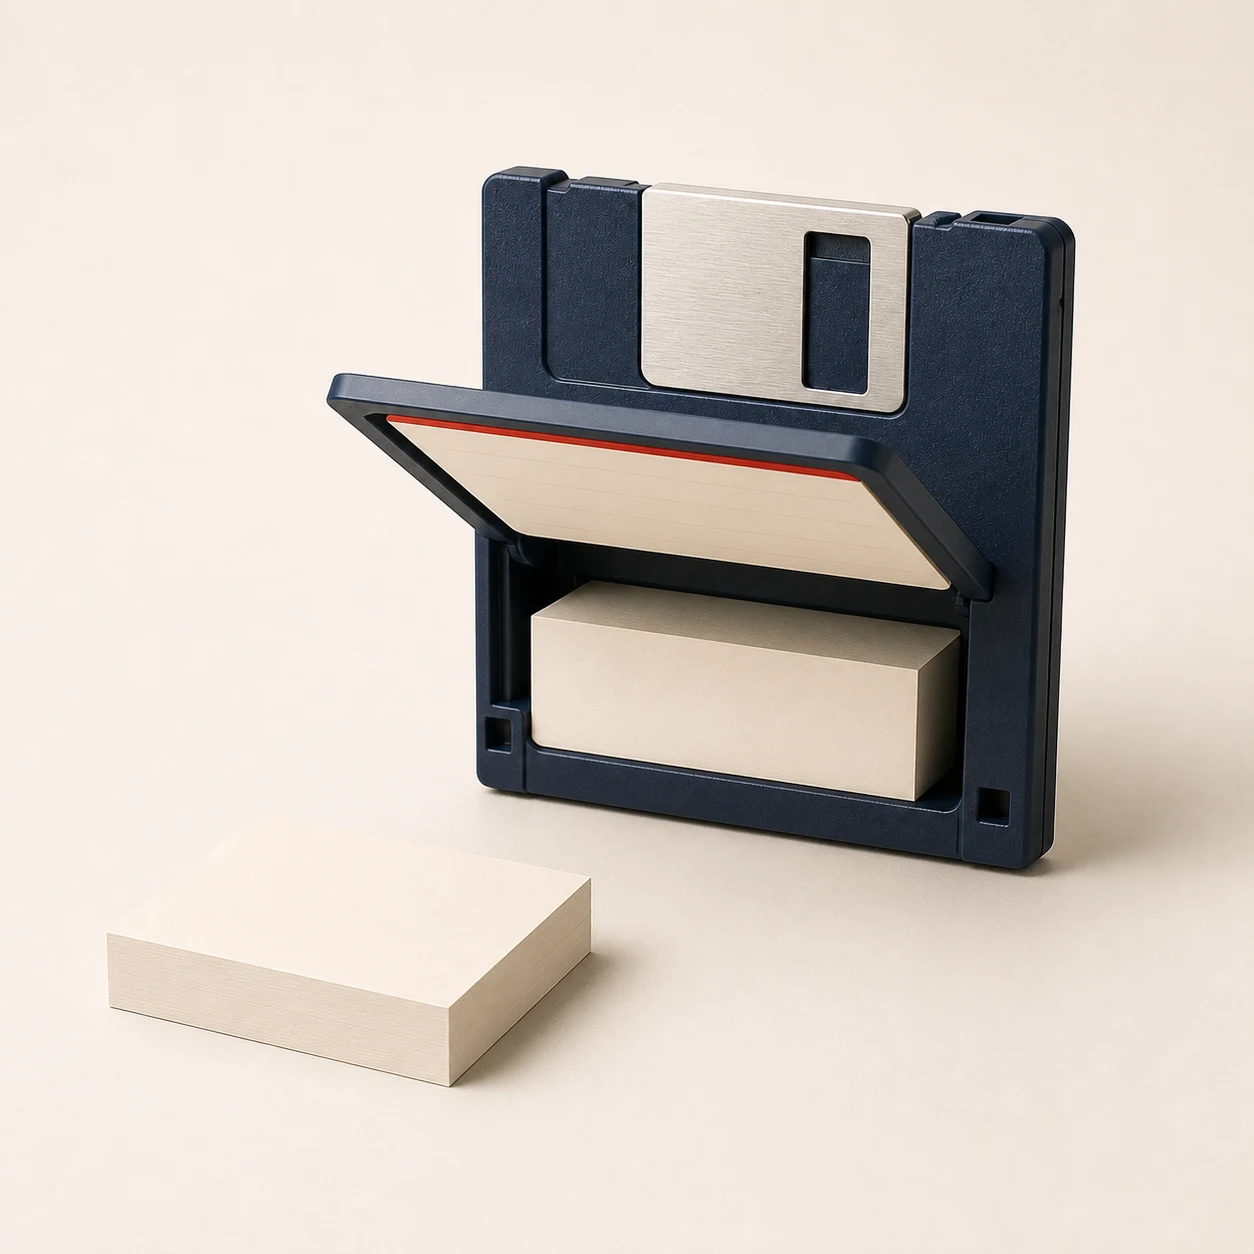
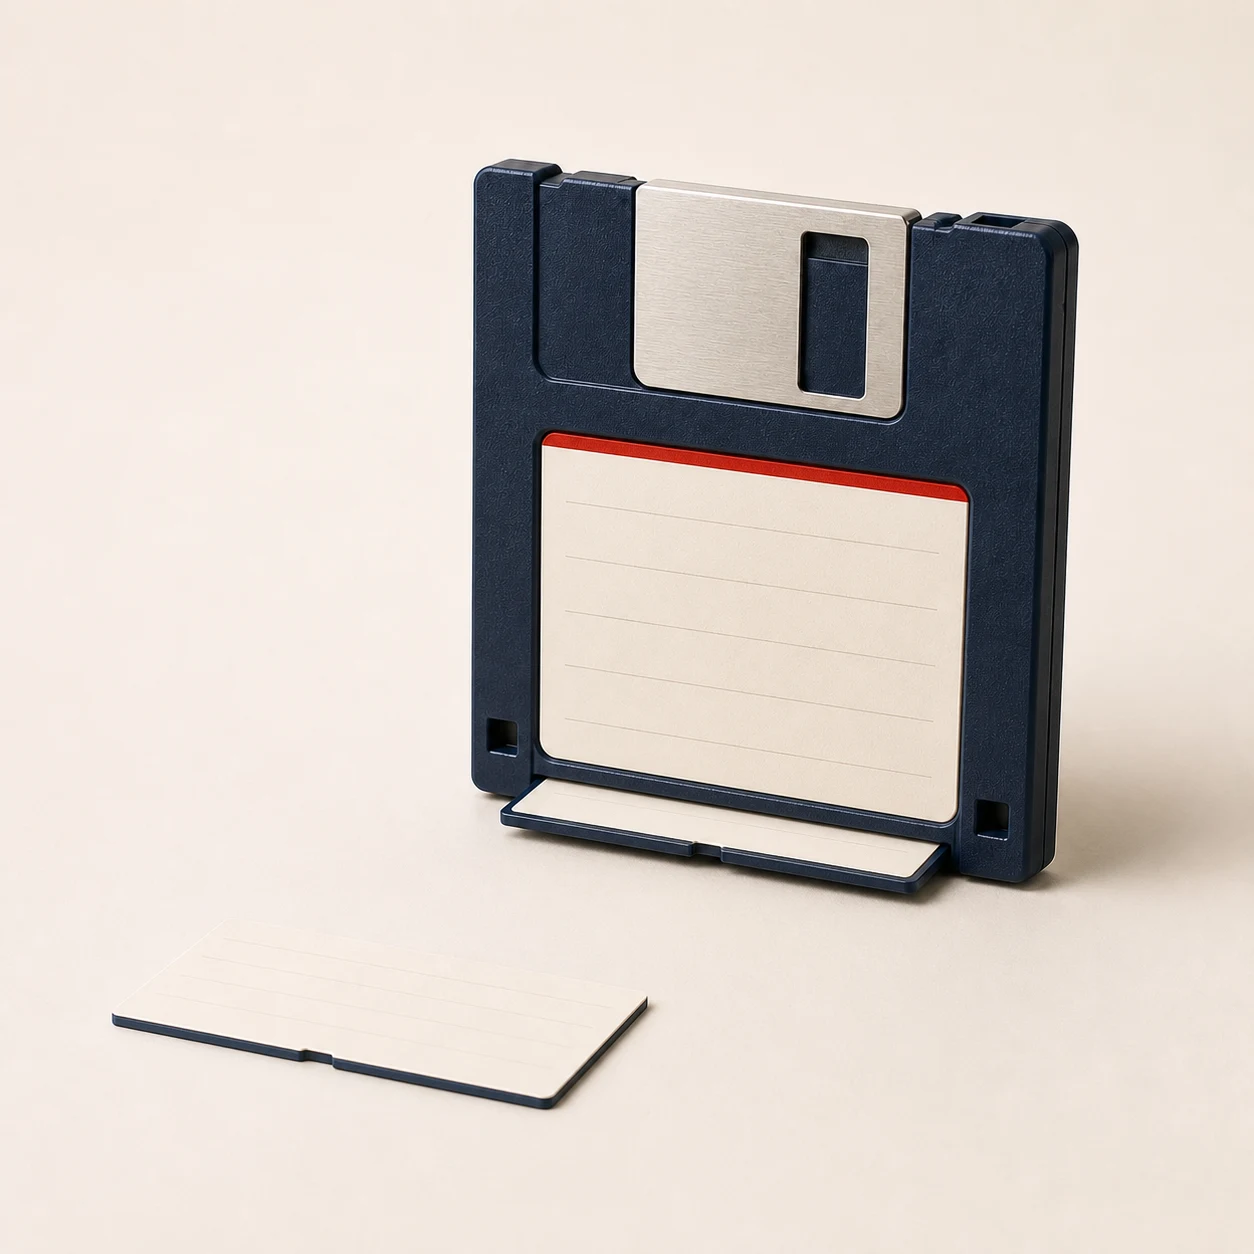
Fix PM-010 refill mechanism

Changed region(s): [[0.2488, 0.1244, 0.9019, 0.7464], [0.0622, 0.7153, 0.5287, 0.9019], [0.8397, 0.5287, 0.8708, 0.6531]]

diff --git a/src/catalog.js b/src/catalog.js
@@ -392,18 +392,18 @@ const floppyDiskMemoPad = {
   statement: ['Save a thought,', 'one sheet at a time.'],
   story: [
     'Floppy Disk Memo Pad brings back the shape of a saved file as a place to save one thought. The memo stack fills the complete lower label window, so the paper feels built into the object rather than attached afterward.',
-    'A hinged lower frame opens to accept a square refill while the metal shutter and molded rear hub preserve the familiar disk construction. Paper release, writing stability, hinge life, and refill tolerance still need a physical sample.',
+    'A wafer-thin cassette slides into the lower edge while the metal shutter and molded rear hub preserve the familiar disk construction. Paper release, writing stability, tray fit, and refill tolerance still need a physical sample.',
   ],
   notes: [
     ['Label becomes paper', 'The complete lower label recess holds a warm off-white memo stack, keeping the floppy silhouette readable at a glance.'],
     ['One-sheet interaction', 'The exposed top sheet stays flat for writing and lifts cleanly from one corner without pulling the remaining stack out.'],
-    ['Refillable frame', 'A concealed hinge opens the lower bezel so lined, grid, or colored paper blocks can share the same reusable shell.'],
-    ['Next test', 'A prototype should verify paper release, writing pressure, hinge durability, latch tolerance, and refill thickness.'],
+    ['Slim refill tray', 'A roughly 3 mm cassette slides into the lower edge so lined, grid, or colored paper can share the same 12 mm body.'],
+    ['Next test', 'A prototype should verify paper release, writing pressure, tray durability, latch tolerance, and refill thickness.'],
   ],
   gallery: [
     ['hero-three-quarter', '01-hero-three-quarter.webp', '네이비 플로피디스크 하단 라벨 영역에 메모 스택이 들어간 사선 제품 렌더', 'Hero view'],
     ['peel-sheet', '02-peel-sheet.webp', '플로피디스크 라벨 영역에서 메모지 한 장의 모서리를 들어 떼어내는 모습', 'Peel one sheet'],
-    ['refill-mechanism', '03-refill-mechanism.webp', '하단 라벨 프레임을 열고 교체형 정사각 메모 리필을 넣는 구조 렌더', 'Refill mechanism'],
+    ['refill-mechanism', '03-refill-mechanism.webp', '플로피디스크 하단 슬롯에서 약 3밀리미터 두께의 얇은 메모 리필 트레이를 꺼낸 구조 렌더', 'Refill mechanism'],
     ['rear-construction', '04-rear-construction.webp', '원형 허브와 고무 받침, 하단 리필 잠금 장치가 있는 후면 구조 렌더', 'Rear construction'],
     ['variant-lineup', '05-color-lineup.webp', '네이비, 그래파이트, 아이보리, 올리브 플로피디스크 메모패드 네 가지 컬러 렌더', 'Color lineup'],
     ['worn-lifestyle', '06-everyday-use.webp', '나무 책상에서 플로피디스크 메모패드에 펜으로 기록하고 떼어낸 메모를 노트에 꽂은 사용 장면', 'Everyday use'],
